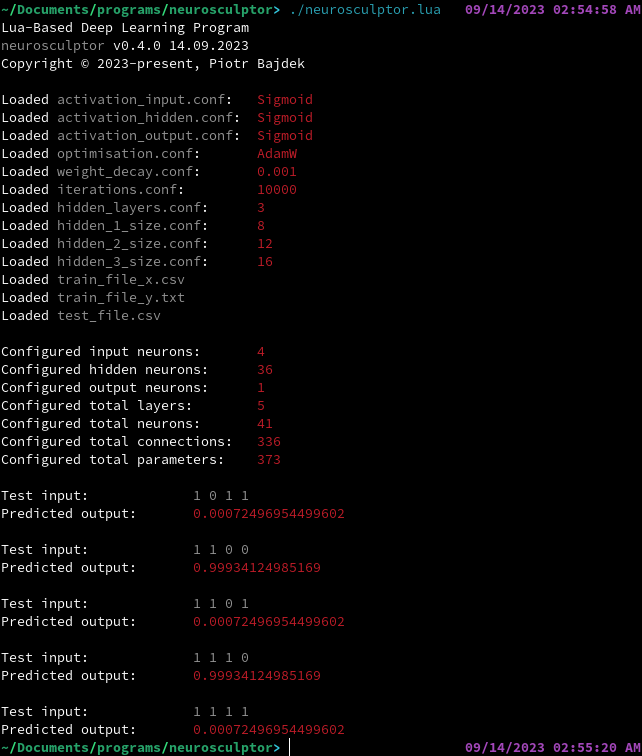
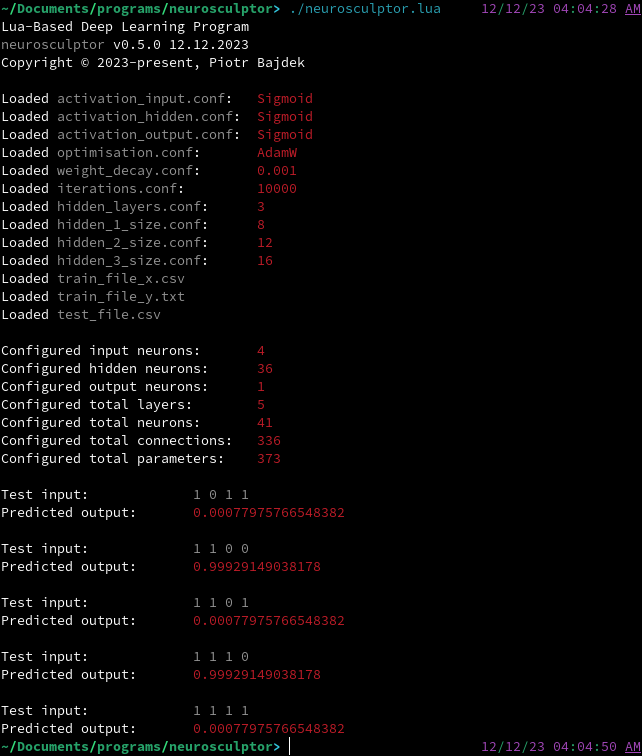
Add files via upload

diff --git a/README.md b/README.md
@@ -8,9 +8,9 @@ Users can experiment with hyperparameter tuning using configuration files. The n
 
 In general, 2 hidden layers are suitable for highly nonlinear separation tasks, while 3 hidden layers excel at handling tasks that challenge human capabilities. Architectures with 4 or more hidden layers theoretically have the potential to tackle tasks beyond human capabilities but may pose challenges during training.
 
-Neurosculptor offers a wide array of activation functions, including CoLU, GELU, Identity, ReLU, Sigmoid, SiLU, Swish, Tanh, and TanhExp. Additionally, the software provides a choice between two gradient descent optimisation algorithms: AdamW and SGD. While both options are available, it's worth noting that AdamW, known for its advanced capabilities, is the recommended choice for most use cases.
+Neurosculptor offers a wide array of activation functions, including CoLU, GELU, Identity, Mish, ReLU, Sigmoid, SiLU, Smish, Swish, Tanh, and TanhExp. Additionally, the software provides a choice between two gradient descent optimisation algorithms: AdamW and SGD. While both options are available, it's worth noting that AdamW, known for its advanced capabilities, is the recommended choice for most use cases.
 
-Neurosculptor v0.4.0 has been verified to work properly with Lua 5.4.4 and LuaJIT 2.1.0-beta3. In terms of performance, it's noteworthy that LuaJIT outperforms Lua by a factor of 14 when benchmarked on a neural network consisting of 250 neurons using the Sigmoid activation function and the SGD algorithm.
+Neurosculptor v0.5.0 has been verified to work properly with Lua 5.4.6 and LuaJIT 2.1.1692716794. In terms of performance, it's noteworthy that LuaJIT outperforms Lua by a factor of 14 when benchmarked on a neural network consisting of 250 neurons using the Sigmoid activation function and the SGD algorithm.
 
 ## Configuration files
 
